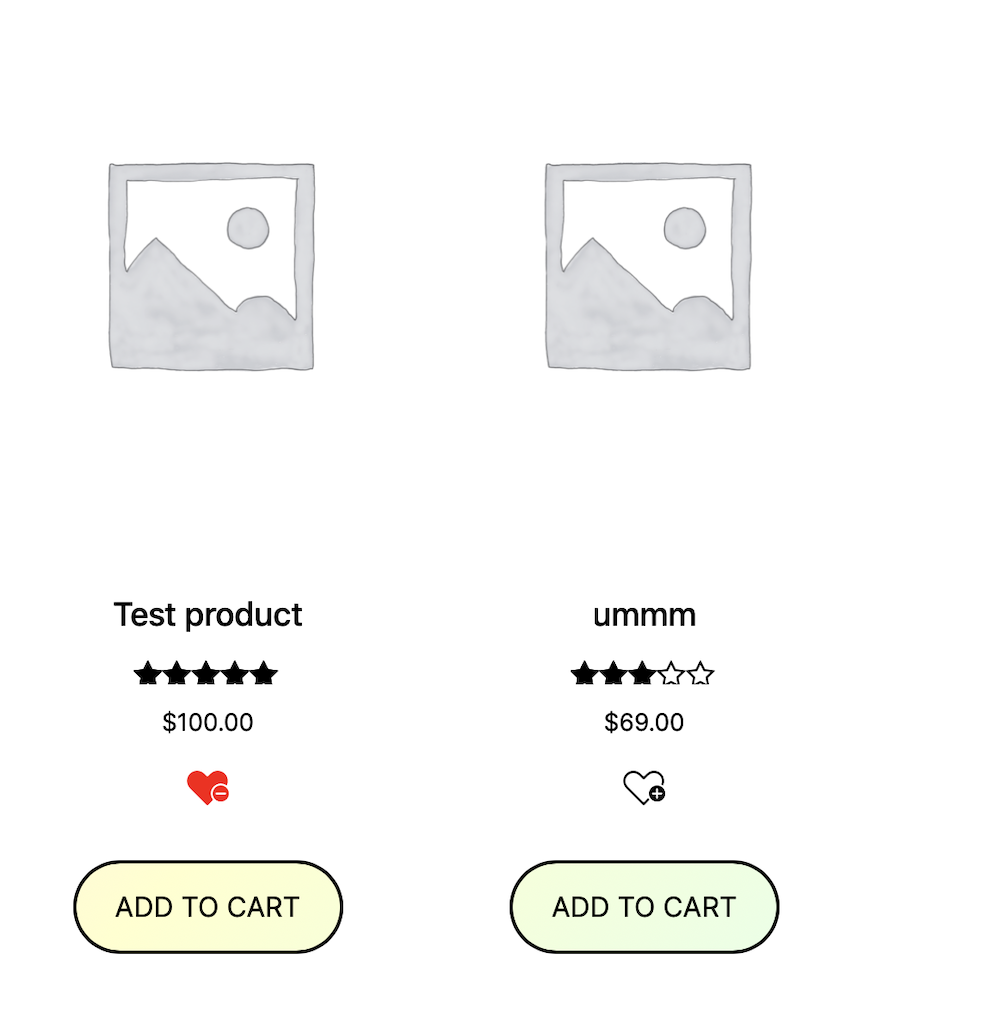
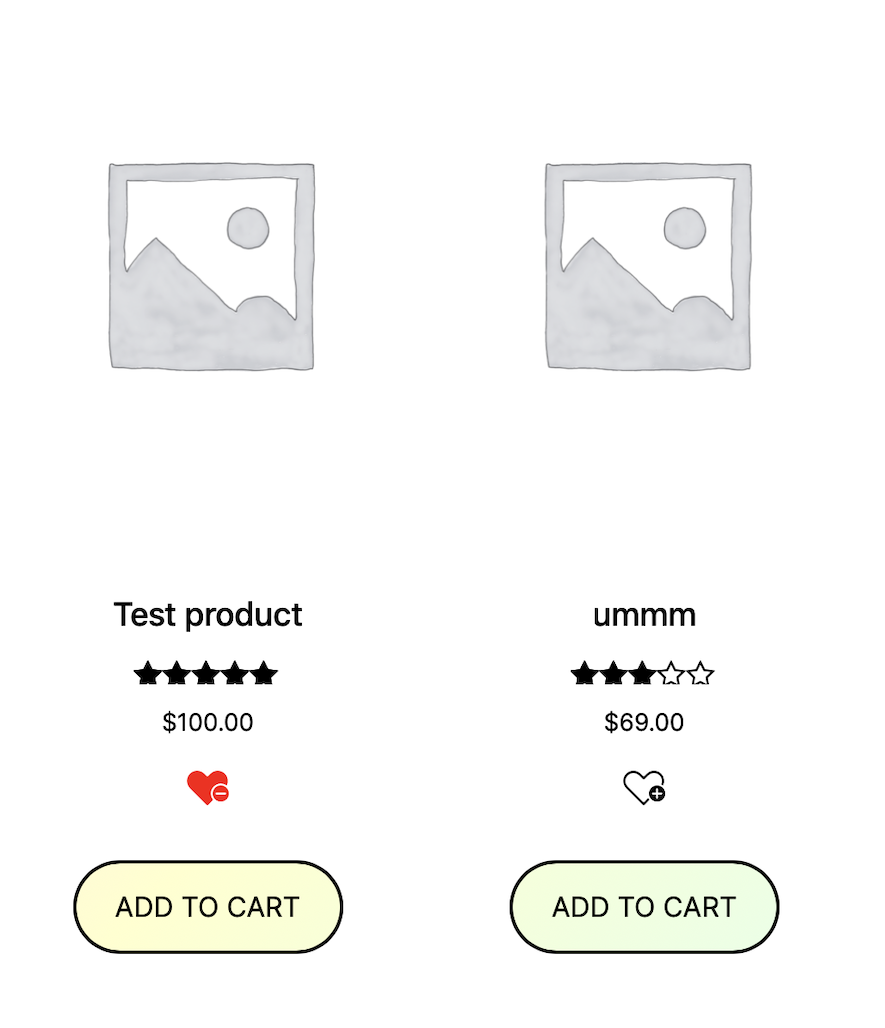
update readme

diff --git a/README.md b/README.md
@@ -33,6 +33,6 @@ This is a wordpress plugin that allows users & customers to add any page, produc
 <p>Settings Page</p>
     <img src="public/Screenshot_2.png" alt="" />
 <p>Pop-up to notify user that its been added to the list</p>
-    <img src="public/Screenshot_3.png" alt="" />
+    <img src="public/Screenshot_3.png" alt="" width="80%"/>
 <p>Shop Page showing the heart add to list button in both states</p>
 </div>
